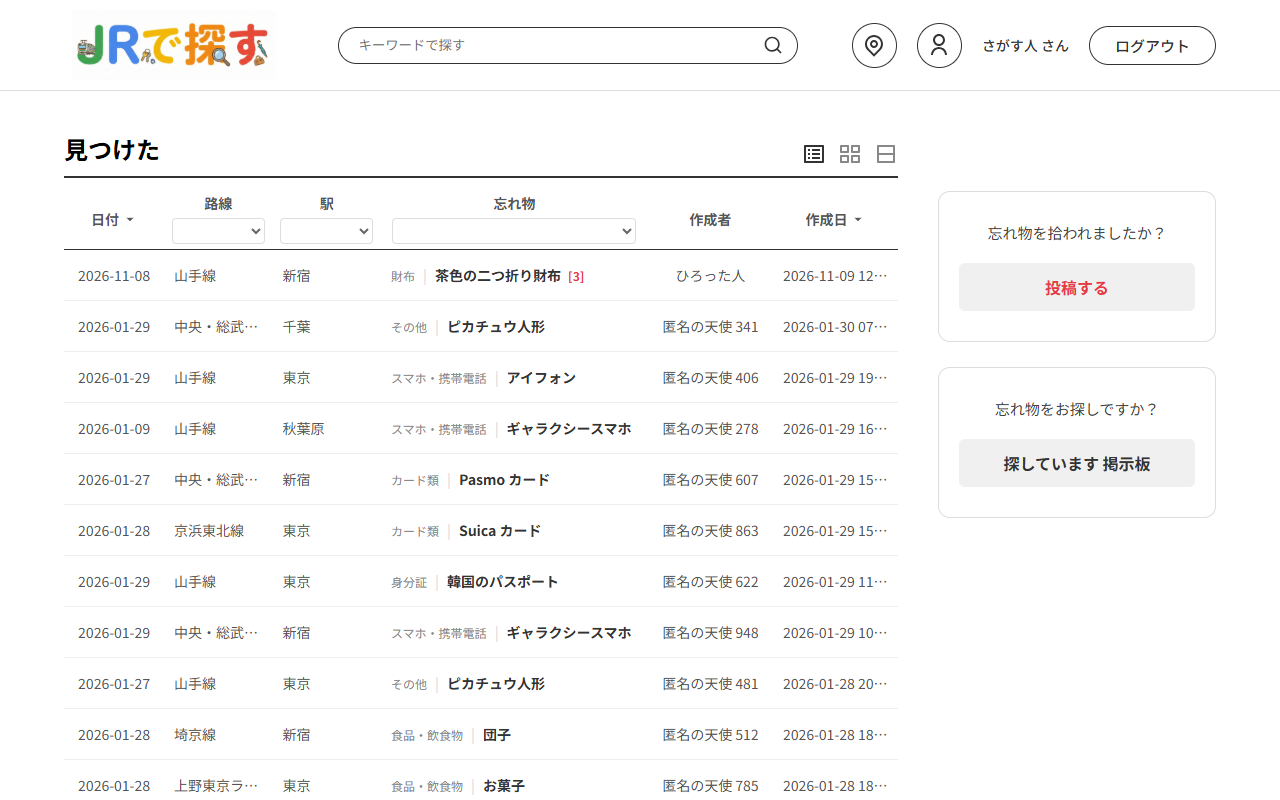
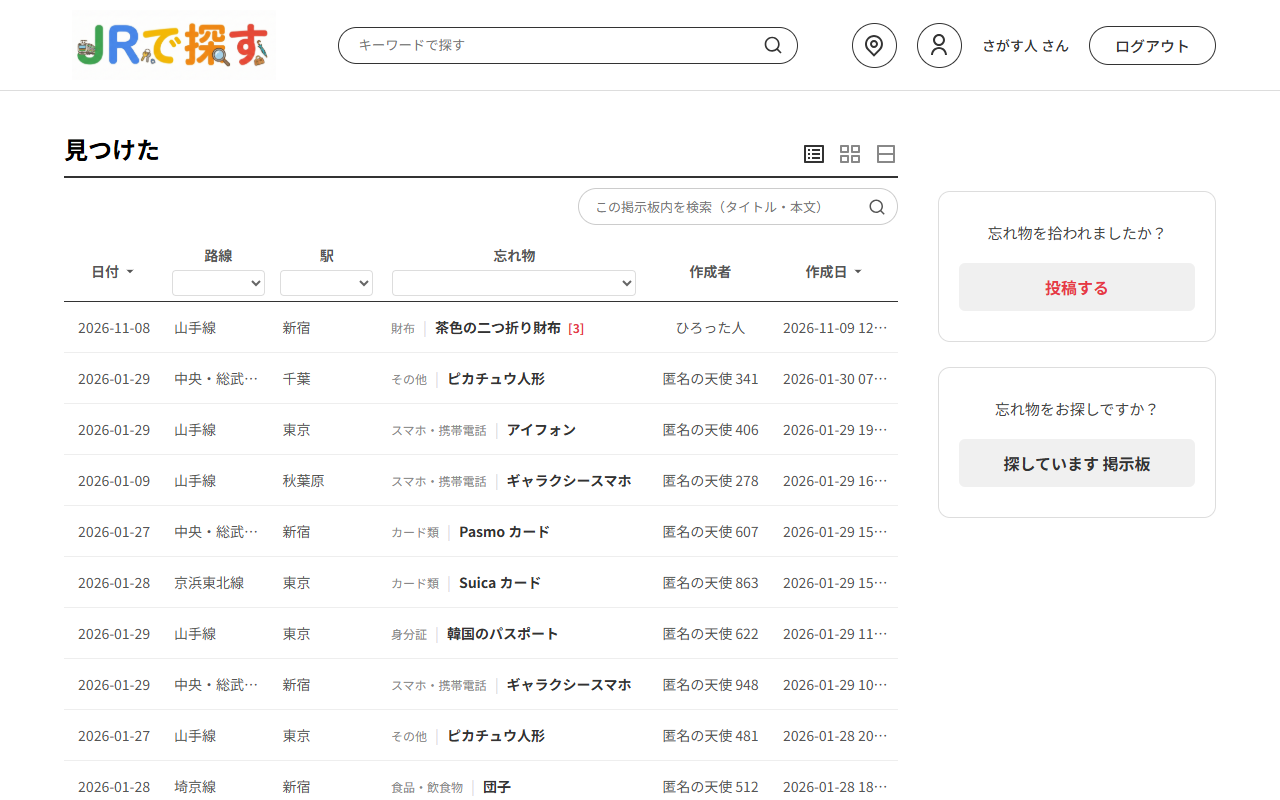
게시판 목록에 그 게시판 안에서만 검색하는 검색창 추가
- 見つけた・探しています 목록 위에 검색창 (제목·본문). 지금 고른 노선·역·忘れ物 필터와 정렬은 그대로 두고 1페이지부터 표시
- 빈 칸으로 검색하면 검색어만 해제, 검색어가 없을 때 빈 칸이면 보내지 않음
- 헤더 검색창은 그대로 통합 검색. 검색어는 통합 검색 화면에서만 다시 채움 (게시판 목록에서는 게시판 안 검색창에 표시)
- 見つけた 목록: 정렬값이 기본값(latest)일 때 作成日 를 처음 누르면 순서가 바뀌지 않던 문제 수정
- 테스트 2개 추가 (전체 93개), README 설명과 목록 스크린샷 2개 갱신

diff --git a/src/main/resources/templates/ItemList.html b/src/main/resources/templates/ItemList.html
@@ -100,6 +100,13 @@
         .keyword-bar b { color: #e63946; }
         .keyword-clear { margin-left: auto; background: none; border: none; font-size: 13px; font-family: inherit; color: #888; text-decoration: underline; cursor: pointer; }
         .keyword-clear:hover { color: #333; }
+        /* 게시판 안 검색창 */
+        .board-tools { display: flex; justify-content: flex-end; margin-bottom: 15px; }
+        .board-search { position: relative; width: 320px; max-width: 100%; }
+        .board-search input[type="text"] { width: 100%; padding: 8px 40px 8px 16px; border: 1px solid #ccc; border-radius: 20px; font-size: 13px; font-family: inherit; outline: none; }
+        .board-search input[type="text"]:focus { border-color: #333; }
+        .board-search-btn { position: absolute; right: 12px; top: 50%; transform: translateY(-50%); width: 18px; height: 18px; padding: 0; border: none; background: none; color: #555; cursor: pointer; }
+        .board-search-btn svg { width: 100%; height: 100%; }
         /* 댓글 수 */
         .comment-count { margin-left: 4px; color: #e63946; font-size: 12px; font-weight: bold; }
     </style>
@@ -118,7 +125,23 @@
                 </div>
             </div>
 
-            <!-- 검색어로 찾은 경우 (헤더 검색 → 통합 검색 → 「すべて見る」) -->
+            <!-- 이 게시판 안에서만 검색 (제목·본문). 헤더 검색창은 두 게시판 통합 검색 -->
+            <!-- 지금 고른 노선·역·忘れ物 필터와 정렬은 그대로 두고 1페이지부터 보여준다 -->
+            <div class="board-tools">
+                <form id="boardSearch" class="board-search" th:action="@{/items}" method="get" role="search">
+                    <input type="hidden" name="line" th:value="${currentLine}">
+                    <input type="hidden" name="station" th:value="${currentStation}">
+                    <input type="hidden" name="category" th:value="${currentCategory}">
+                    <input type="hidden" name="sort" th:value="${currentSort}">
+                    <input type="text" id="boardKeyword" name="q" maxlength="100" placeholder="この掲示板内を検索（タイトル・本文）"
+                           aria-label="見つけた 掲示板内を検索" th:value="${currentKeyword}">
+                    <button type="submit" class="board-search-btn" title="この掲示板内を検索">
+                        <svg xmlns="http://www.w3.org/2000/svg" viewBox="0 0 24 24" fill="currentColor"><path d="M18.031 16.6168L22.3137 20.8995L20.8995 22.3137L16.6168 18.031C15.0769 19.263 13.124 20 11 20C6.032 20 2 15.968 2 11C2 6.032 6.032 2 11 2C15.968 2 20 6.032 20 11C20 13.124 19.263 15.0769 18.031 16.6168ZM16.0247 15.8748C17.2475 14.6146 18 12.8956 18 11C18 7.1325 14.8675 4 11 4C7.1325 4 4 7.1325 4 11C4 14.8675 7.1325 18 11 18C12.8956 18 14.6146 17.2475 15.8748 16.0247L16.0247 15.8748Z"></path></svg>
+                    </button>
+                </form>
+            </div>
+
+            <!-- 검색어로 찾은 경우 (게시판 안 검색창, 또는 헤더 검색 → 통합 검색 → 「すべて見る」) -->
             <div class="keyword-bar" th:if="${currentKeyword != null}">
                 <span>「<b th:text="${currentKeyword}">キーワード</b>」の検索結果 <span th:text="${totalItems}">0</span>件</span>
                 <button type="button" class="keyword-clear" onclick="clearKeyword()">検索をやめる</button>
@@ -370,8 +393,9 @@
 	    // [수정] 정렬 토글 로직 분리
 	    // type: 'date'(발견일) 또는 'reg'(작성일)
 	    function toggleSort(type) {
-	        // 현재 URL의 정렬 상태 가져오기 (없으면 reg_desc)
-	        const currentSort = new URLSearchParams(window.location.search).get('sort') || 'reg_desc';
+	        // 현재 URL의 정렬 상태 가져오기 (없으면 reg_desc. 기본값 latest 도 작성일 내림차순과 같다)
+	        let currentSort = new URLSearchParams(window.location.search).get('sort') || 'reg_desc';
+	        if (currentSort === 'latest') currentSort = 'reg_desc';
 	        let nextSort = 'reg_desc'; // 기본값
 
 	        if (type === 'date') {
@@ -433,6 +457,18 @@
 
 	    categoryFilter.addEventListener('change', function() {
 	        goPage(null, null, this.value, null, 1);
+	    });
+
+	    // 게시판 안 검색: 빈 칸이면 보내지 않는다 (검색 중이었다면 검색어만 지운다)
+	    document.getElementById('boardSearch').addEventListener('submit', function(e) {
+	        const input = document.getElementById('boardKeyword');
+	        if (input.value.trim() !== '') return;
+	        e.preventDefault();
+	        if (keyword) {
+	            clearKeyword();
+	        } else {
+	            input.focus();
+	        }
 	    });
 
 	    // 시작

diff --git a/src/main/resources/templates/lostList.html b/src/main/resources/templates/lostList.html
@@ -50,6 +50,13 @@
         .keyword-bar b { color: #e63946; }
         .keyword-clear { margin-left: auto; background: none; border: none; font-size: 13px; font-family: inherit; color: #888; text-decoration: underline; cursor: pointer; }
         .keyword-clear:hover { color: #333; }
+        /* 게시판 안 검색창 */
+        .board-tools { display: flex; justify-content: flex-end; margin-bottom: 15px; }
+        .board-search { position: relative; width: 320px; max-width: 100%; }
+        .board-search input[type="text"] { width: 100%; padding: 8px 40px 8px 16px; border: 1px solid #ccc; border-radius: 20px; font-size: 13px; font-family: inherit; outline: none; }
+        .board-search input[type="text"]:focus { border-color: #333; }
+        .board-search-btn { position: absolute; right: 12px; top: 50%; transform: translateY(-50%); width: 18px; height: 18px; padding: 0; border: none; background: none; color: #555; cursor: pointer; }
+        .board-search-btn svg { width: 100%; height: 100%; }
         /* 댓글 수 */
         .comment-count { margin-left: 4px; color: #e63946; font-size: 12px; font-weight: bold; }
     </style>
@@ -64,7 +71,23 @@
                 <span class="board-desc">なくした物を探している方の投稿です</span>
             </div>
 
-            <!-- 검색어로 찾은 경우 (헤더 검색 → 통합 검색 → 「すべて見る」) -->
+            <!-- 이 게시판 안에서만 검색 (제목·본문). 헤더 검색창은 두 게시판 통합 검색 -->
+            <!-- 지금 고른 노선·역·忘れ物 필터와 정렬은 그대로 두고 1페이지부터 보여준다 -->
+            <div class="board-tools">
+                <form id="boardSearch" class="board-search" th:action="@{/lost-items}" method="get" role="search">
+                    <input type="hidden" name="line" th:value="${currentLine}">
+                    <input type="hidden" name="station" th:value="${currentStation}">
+                    <input type="hidden" name="category" th:value="${currentCategory}">
+                    <input type="hidden" name="sort" th:value="${currentSort}">
+                    <input type="text" id="boardKeyword" name="q" maxlength="100" placeholder="この掲示板内を検索（タイトル・本文）"
+                           aria-label="探しています 掲示板内を検索" th:value="${currentKeyword}">
+                    <button type="submit" class="board-search-btn" title="この掲示板内を検索">
+                        <svg xmlns="http://www.w3.org/2000/svg" viewBox="0 0 24 24" fill="currentColor"><path d="M18.031 16.6168L22.3137 20.8995L20.8995 22.3137L16.6168 18.031C15.0769 19.263 13.124 20 11 20C6.032 20 2 15.968 2 11C2 6.032 6.032 2 11 2C15.968 2 20 6.032 20 11C20 13.124 19.263 15.0769 18.031 16.6168ZM16.0247 15.8748C17.2475 14.6146 18 12.8956 18 11C18 7.1325 14.8675 4 11 4C7.1325 4 4 7.1325 4 11C4 14.8675 7.1325 18 11 18C12.8956 18 14.6146 17.2475 15.8748 16.0247L16.0247 15.8748Z"></path></svg>
+                    </button>
+                </form>
+            </div>
+
+            <!-- 검색어로 찾은 경우 (게시판 안 검색창, 또는 헤더 검색 → 통합 검색 → 「すべて見る」) -->
             <div class="keyword-bar" th:if="${currentKeyword != null}">
                 <span>「<b th:text="${currentKeyword}">キーワード</b>」の検索結果 <span th:text="${totalItems}">0</span>件</span>
                 <button type="button" class="keyword-clear" onclick="clearKeyword()">検索をやめる</button>
@@ -249,6 +272,18 @@
         lineFilter.addEventListener('change', function() { goPage(this.value, null, null, null, 1); });
         stationFilter.addEventListener('change', function() { goPage(null, this.value, null, null, 1); });
         categoryFilter.addEventListener('change', function() { goPage(null, null, this.value, null, 1); });
+
+        // 게시판 안 검색: 빈 칸이면 보내지 않는다 (검색 중이었다면 검색어만 지운다)
+        document.getElementById('boardSearch').addEventListener('submit', function(e) {
+            const input = document.getElementById('boardKeyword');
+            if (input.value.trim() !== '') return;
+            e.preventDefault();
+            if (keyword) {
+                clearKeyword();
+            } else {
+                input.focus();
+            }
+        });
     </script>
 </body>
 </html>

diff --git a/src/main/resources/templates/fragments/header.html b/src/main/resources/templates/fragments/header.html
@@ -82,10 +82,11 @@
 		</a>
 
         <!-- 통합 검색 (두 게시판의 제목·본문). 빈 칸이면 보내지 않는다 -->
+        <!-- 검색어는 통합 검색 화면에서만 다시 채운다 (게시판 목록에서는 게시판 안 검색창에 표시) -->
         <form class="header-search" th:action="@{/search}" method="get" role="search"
               onsubmit="return this.q.value.trim() !== '';">
             <input type="text" name="q" maxlength="100" placeholder="キーワードで探す" aria-label="検索"
-                   th:value="${param.q != null ? param.q[0] : ''}">
+                   th:value="${keyword}">
             <button type="submit" class="header-search-icon" title="検索">
                 <svg xmlns="http://www.w3.org/2000/svg" viewBox="0 0 24 24" fill="currentColor"><path d="M18.031 16.6168L22.3137 20.8995L20.8995 22.3137L16.6168 18.031C15.0769 19.263 13.124 20 11 20C6.032 20 2 15.968 2 11C2 6.032 6.032 2 11 2C15.968 2 20 6.032 20 11C20 13.124 19.263 15.0769 18.031 16.6168ZM16.0247 15.8748C17.2475 14.6146 18 12.8956 18 11C18 7.1325 14.8675 4 11 4C7.1325 4 4 7.1325 4 11C4 14.8675 7.1325 18 11 18C12.8956 18 14.6146 17.2475 15.8748 16.0247L16.0247 15.8748Z"></path></svg>
             </button>

diff --git a/src/test/java/com/example/jrfind/controller/SearchControllerTest.java b/src/test/java/com/example/jrfind/controller/SearchControllerTest.java
@@ -8,6 +8,7 @@ import static org.springframework.test.web.servlet.result.MockMvcResultMatchers.
 import static org.springframework.test.web.servlet.result.MockMvcResultMatchers.model;
 import static org.springframework.test.web.servlet.result.MockMvcResultMatchers.status;
 
+import java.nio.charset.StandardCharsets;
 import java.time.LocalDate;
 import java.time.LocalDateTime;
 import java.util.ArrayList;
@@ -22,6 +23,7 @@ import org.springframework.boot.webmvc.test.autoconfigure.AutoConfigureMockMvc;
 import org.springframework.jdbc.core.JdbcTemplate;
 import org.springframework.test.context.ActiveProfiles;
 import org.springframework.test.web.servlet.MockMvc;
+import org.springframework.test.web.servlet.request.MockHttpServletRequestBuilder;
 
 import com.example.jrfind.domain.FoundItem;
 import com.example.jrfind.domain.LoginMember;
@@ -158,7 +160,7 @@ class SearchControllerTest {
 			.andExpect(model().attribute("totalItems", 2))
 			.andExpect(model().attribute("currentKeyword", marker))
 			.andExpect(content().string(containsString("の検索結果")))
-			.andExpect(content().string(containsString("value=\"" + marker + "\""))); // 헤더 검색창에 검색어 유지
+			.andExpect(content().string(containsString("value=\"" + marker + "\""))); // 게시판 안 검색창에 검색어 유지
 
 		List<FoundItem> items = (List<FoundItem>) mockMvc.perform(get("/items").param("q", marker).param("station", "新宿"))
 			.andExpect(model().attribute("totalItems", 1))
@@ -189,6 +191,34 @@ class SearchControllerTest {
 	}
 
 	@Test
+	void 게시판_안_검색창은_그_게시판으로_보내고_지금_고른_필터와_정렬을_함께_보낸다() throws Exception {
+		insertFound("傘", "新宿", marker, false);
+		insertFound("傘", "渋谷", marker, false);
+		insertLost("傘", "新宿", marker);
+
+		String boardForm = form(page(get("/items").param("q", marker).param("station", "新宿").param("sort", "date_asc")), "id=\"boardSearch\"");
+		assertThat(boardForm).contains("action=\"/items\"", "name=\"q\"", "value=\"" + marker + "\"",
+			"name=\"station\" value=\"新宿\"", "name=\"sort\" value=\"date_asc\"");
+		assertThat(form(page(get("/lost-items").param("category", "その他")), "id=\"boardSearch\""))
+			.contains("action=\"/lost-items\"", "name=\"category\" value=\"その他\"");
+
+		// 검색창이 보내는 그대로 (고르지 않은 필터는 빈 값). 다른 게시판의 글은 나오지 않는다
+		mockMvc.perform(get("/items").param("line", "").param("station", "新宿").param("category", "").param("sort", "latest").param("q", marker))
+			.andExpect(model().attribute("totalItems", 1));
+		mockMvc.perform(get("/lost-items").param("line", "").param("station", "").param("category", "").param("sort", "latest").param("q", marker))
+			.andExpect(model().attribute("totalItems", 1));
+	}
+
+	@Test
+	void 헤더_검색창은_통합_검색_화면에서만_검색어를_채운다() throws Exception {
+		assertThat(form(page(get("/search").param("q", marker)), "class=\"header-search\""))
+			.contains("action=\"/search\"", "value=\"" + marker + "\"");
+		// 게시판 목록에서는 게시판 안 검색창에만 표시
+		assertThat(form(page(get("/items").param("q", marker)), "class=\"header-search\"")).doesNotContain(marker);
+		assertThat(form(page(get("/lost-items").param("q", marker)), "class=\"header-search\"")).doesNotContain(marker);
+	}
+
+	@Test
 	void 작성_일시나_날짜가_같은_글도_페이지를_넘기면_빠짐없이_한_번씩_나온다() throws Exception {
 		// 같은 일시에 등록된 글 (예전 데이터를 옮겨 왔을 때 실제로 있었던 경우)
 		LocalDateTime sameTime = LocalDateTime.of(2026, 1, 20, 12, 0);
@@ -216,6 +246,16 @@ class SearchControllerTest {
 	}
 
 	// ---------- 도우미 ----------
+
+	private String page(MockHttpServletRequestBuilder request) throws Exception {
+		return mockMvc.perform(request).andExpect(status().isOk()).andReturn().getResponse().getContentAsString(StandardCharsets.UTF_8);
+	}
+
+	// html 에서 attribute 가 붙은 <form> ~ </form> 부분
+	private String form(String html, String attribute) {
+		int start = html.lastIndexOf("<form", html.indexOf(attribute));
+		return html.substring(start, html.indexOf("</form>", start));
+	}
 
 	private long insertFound(String itemName, String station, String contents, boolean deleted) {
 		jdbcTemplate.update("INSERT INTO FOUND_ITEM (TITLE, FOUNDDATE, LINENAME, STATIONNAME, CATEGORYNAME, ITEMNAME, CONTENTS, AUTHOR, DEL_FLG, REGISTRATIONDATE)"

diff --git a/README.ja.md b/README.ja.md
@@ -13,7 +13,7 @@
 <table>
   <tr>
     <td width="50%"><img src="docs/screenshots/01-home.png" alt="ホーム"><br>ホーム — 統合検索ボックスと両掲示板への入口</td>
-    <td width="50%"><img src="docs/screenshots/02-found-list.png" alt="見つけた 一覧"><br>見つけた 一覧 — 路線・駅・カテゴリでの絞り込み、並べ替え、コメント数</td>
+    <td width="50%"><img src="docs/screenshots/02-found-list.png" alt="見つけた 一覧"><br>見つけた 一覧 — 掲示板内検索、路線・駅・カテゴリでの絞り込み、並べ替え、コメント数</td>
   </tr>
   <tr>
     <td><img src="docs/screenshots/03-found-detail.png" alt="見つけた 詳細"><br>見つけた 詳細 — コメント（投稿者本人には「投稿者」を表示）、お忘れ物の問い合わせ先</td>
@@ -89,6 +89,7 @@ Java 21 が必要です。
 ## 検索
 
 - ヘッダー・ホーム画面の検索ボックス → 統合検索画面（`/search?q=`）：両掲示板の最新5件ずつと総件数、「すべて見る」で各掲示板の一覧へ移動
+- 各掲示板の一覧上部の検索ボックス → その掲示板内だけを検索（選択中の絞り込み・並べ替えはそのまま、1ページ目から表示）。空欄で検索するとキーワードだけを解除
 - 掲示板の一覧では、検索キーワード（`?q=`）と路線・駅・カテゴリの絞り込み、並べ替え、ページ移動を組み合わせて使用可能（「検索をやめる」でキーワードだけを解除）
 - タイトル（日付・路線・駅・カテゴリ・物の名前を含む）と本文から検索。空白（全角を含む）で区切った単語をすべて含む投稿のみ表示（最大5単語）
 - 大文字・小文字は区別しない。`%` `_` はワイルドカードではなく文字そのものとして検索（LIKE のエスケープ）

diff --git a/README.md b/README.md
@@ -13,7 +13,7 @@
 <table>
   <tr>
     <td width="50%"><img src="docs/screenshots/01-home.png" alt="홈"><br>홈 — 통합 검색창과 두 게시판 입구</td>
-    <td width="50%"><img src="docs/screenshots/02-found-list.png" alt="見つけた 목록"><br>見つけた 목록 — 노선·역·카테고리 필터, 정렬, 댓글 수</td>
+    <td width="50%"><img src="docs/screenshots/02-found-list.png" alt="見つけた 목록"><br>見つけた 목록 — 게시판 안 검색, 노선·역·카테고리 필터, 정렬, 댓글 수</td>
   </tr>
   <tr>
     <td><img src="docs/screenshots/03-found-detail.png" alt="見つけた 상세"><br>見つけた 상세 — 댓글(글쓴이는 「投稿者」 표시), お忘れ物 문의처</td>
@@ -89,6 +89,7 @@ Java 21이 필요합니다.
 ## 검색
 
 - 헤더·홈 화면의 검색창 → 통합 검색 화면 (`/search?q=`): 두 게시판에서 최신 5건씩과 전체 건수, 「すべて見る」로 각 게시판 목록 이동
+- 각 게시판 목록 위의 검색창 → 그 게시판 안에서만 검색 (지금 고른 필터·정렬은 그대로, 1페이지부터). 빈 칸으로 검색하면 검색어만 해제
 - 게시판 목록에서는 검색어(`?q=`)와 노선·역·카테고리 필터, 정렬, 페이지 이동을 함께 사용 (「検索をやめる」로 검색어만 해제)
 - 제목(날짜·노선·역·카테고리·물건 이름 포함)과 본문에서 찾음. 공백(전각 포함)으로 나눈 단어는 모두 포함하는 글만 (최대 5단어)
 - 대소문자 구분 없음, `%` `_` 는 와일드카드가 아니라 글자 그대로 검색 (LIKE 이스케이프)
